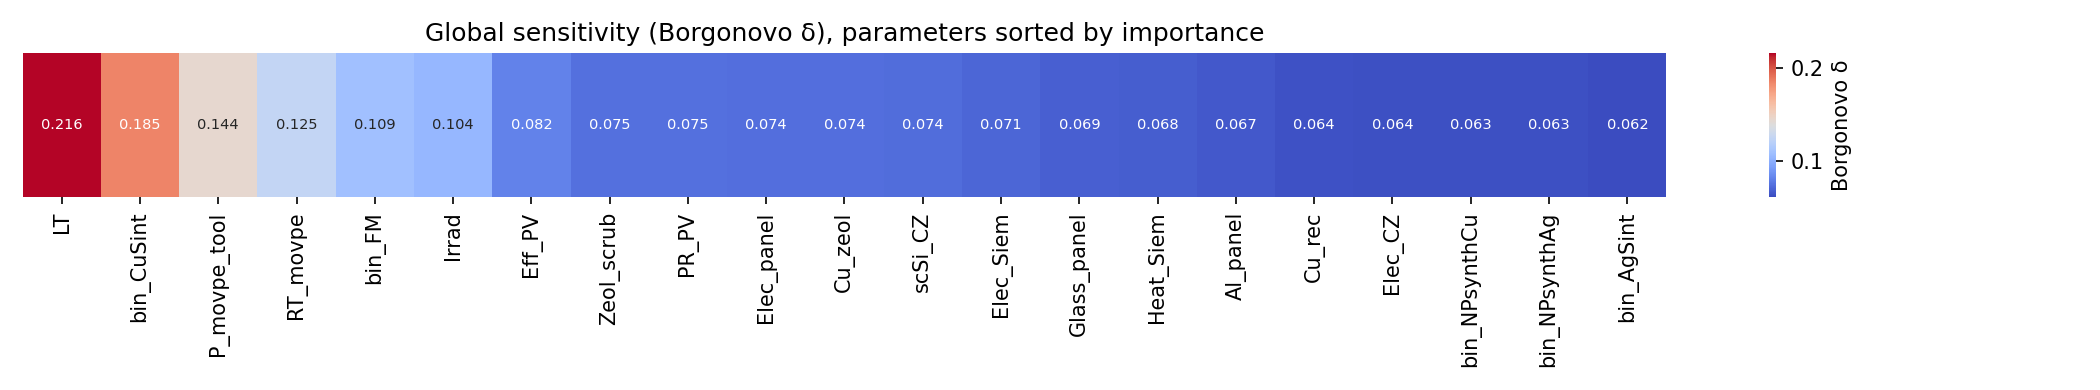
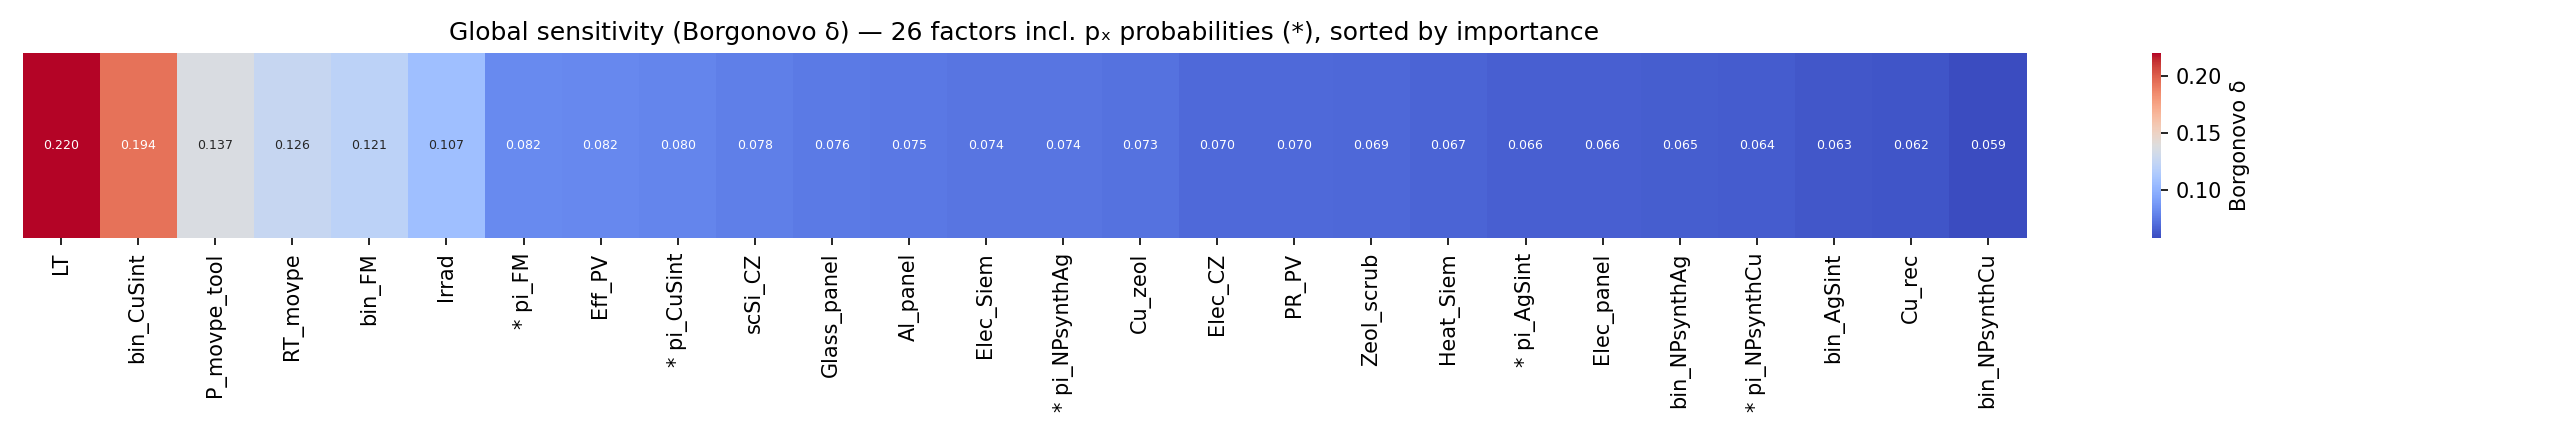
Include all 26 factors (add px probabilities) per thesis full model
Promote the five pi_* success-probabilities to model parameters (group=project). They carry no LCA formula but enter the GSA indirectly via the bin_* switches they parameterise (thesis 25/26-factor t=0 model). Y is unchanged (pi_* do not affect the LCA), so the 26-param GSA was recomputed by splicing the pi_* columns onto X and reusing the existing 10k scores - verified the regenerated matrix matches the original to 2e-13 (binaries exact).

- Registry: pi_* -> group=project, marked indirect=True; validation gate now classifies indirect factors instead of warning.

- Regenerated docs/gsa_delta_heatmap.png (26 factors, pi_* marked *), examples/gsa_delta_results.csv, examples/PROB_X_t0_short.csv.

- README: 26-factor results + 'How this compares to the thesis' (consistent magnitude and dominant factor set; ordering differs due to functional unit and inventory, not parameter selection).

diff --git a/README.md b/README.md
@@ -61,29 +61,48 @@ On a clean database the Python pipeline reproduces the original parameter approa
 ## Example results — III‑V/Si tandem PV (10,000 iterations)
 
 Global warming impact of 1 kWh of electricity (ILCD 2.0 climate change total), propagating
-all 21 uncertain parameters.
+**all 26 uncertain factors** — including the five `pₓ` success‑probabilities, which enter the
+analysis indirectly via the binary design choices they parameterise (the thesis's full t=0 model).
 
 **Output distribution** (kg CO₂‑eq / kWh): mean **0.200**, median **0.175**, P5 **0.106**,
 P95 **0.405** — right‑skewed, with a long tail toward higher impacts.
 
 ![Monte Carlo distribution](docs/mc_distribution.png)
 
-**Global sensitivity (Borgonovo δ)** — which parameters drive that spread:
+**Global sensitivity (Borgonovo δ)** — which factors drive that spread (`*` = indirect `pₓ`):
 
 ![GSA delta heatmap](docs/gsa_delta_heatmap.png)
 
-| Rank | Parameter | δ | S1 | Meaning |
+| Rank | Factor | δ | S1 | Meaning |
 |---|---|---|---|---|
-| 1 | `LT` | 0.216 | 0.171 | Panel lifetime (sets the kWh denominator) |
-| 2 | `bin_CuSint` | 0.185 | 0.382 | Cu laser‑vs‑chemical sintering choice (largest first‑order variance share) |
-| 3 | `P_movpe_tool` | 0.144 | 0.068 | MOVPE tool power load |
-| 4 | `RT_movpe` | 0.125 | 0.052 | MOVPE runtime |
-| 5 | `bin_FM` | 0.109 | 0.055 | Front‑metal nanoink choice |
-| 6 | `Irrad` | 0.104 | 0.038 | Irradiation |
+| 1 | `LT` | 0.220 | 0.174 | Panel lifetime (sets the per‑kWh denominator) |
+| 2 | `bin_CuSint` | 0.194 | 0.380 | Cu laser‑vs‑chemical sintering choice (largest first‑order variance share) |
+| 3 | `P_movpe_tool` | 0.137 | 0.069 | MOVPE tool power load |
+| 4 | `RT_movpe` | 0.126 | 0.045 | MOVPE runtime |
+| 5 | `bin_FM` | 0.121 | 0.053 | Front‑metal nanoink choice |
+| 6 | `Irrad` | 0.107 | 0.030 | Irradiation |
+| 7 | `* pi_FM` | 0.082 | 0.010 | P(Cu vs Ag nanoink) |
+| 9 | `* pi_CuSint` | 0.080 | 0.006 | P(laser sintering Cu) |
 
-Lifetime and the discrete copper‑sintering choice dominate; the remaining parameters each
-contribute modestly. Full table: [`examples/gsa_delta_results.csv`](examples/gsa_delta_results.csv).
-Regenerate everything by running the notebook end to end.
+Lifetime and the discrete copper‑sintering choice dominate; the rest contribute modestly. Full
+table: [`examples/gsa_delta_results.csv`](examples/gsa_delta_results.csv). Regenerate everything
+by running the notebook end to end.
+
+### How this compares to the thesis (Blanco 2022, Ch. 6)
+
+**Consistent, not identical.** The impact magnitude (~0.20 kg CO₂‑eq/kWh) matches the thesis's
+t=0 snapshot, and the same *set* of factors dominates (lifetime, MOVPE power & runtime, the
+front‑metal choice). The **ordering differs** — the thesis t=0 ranks `P_movpe_tool` first and finds
+the `pₓ` more influential than the binaries, whereas we get `LT` first and the binaries above their
+`pₓ`. This is structural, not a parameter‑selection issue:
+
+- **Functional unit.** Per‑kWh impact ∝ `1/(LT·Irrad·Eff·PR)`, so lifetime/irradiation scale the
+  *whole* footprint while `P_movpe_tool` scales only the MOVPE branch — elevating `LT` here.
+- **Discrete‑jump size.** `bin_CuSint` injects a large discrete impact (laser‑sintering reagents),
+  making the binary dominate and diluting its `pₓ`. The thesis itself notes this binary‑vs‑`pₓ`
+  ordering flips between its case studies, i.e. it is model‑specific.
+- **Different model.** This runs the reconstructed `SiTaSol_F2v1a`/`IEA_PVPS_2020` databases with
+  ILCD 2.0, not the thesis's exact integrated LCA — so exact δ values aren't expected to coincide.
 
 ---
 
